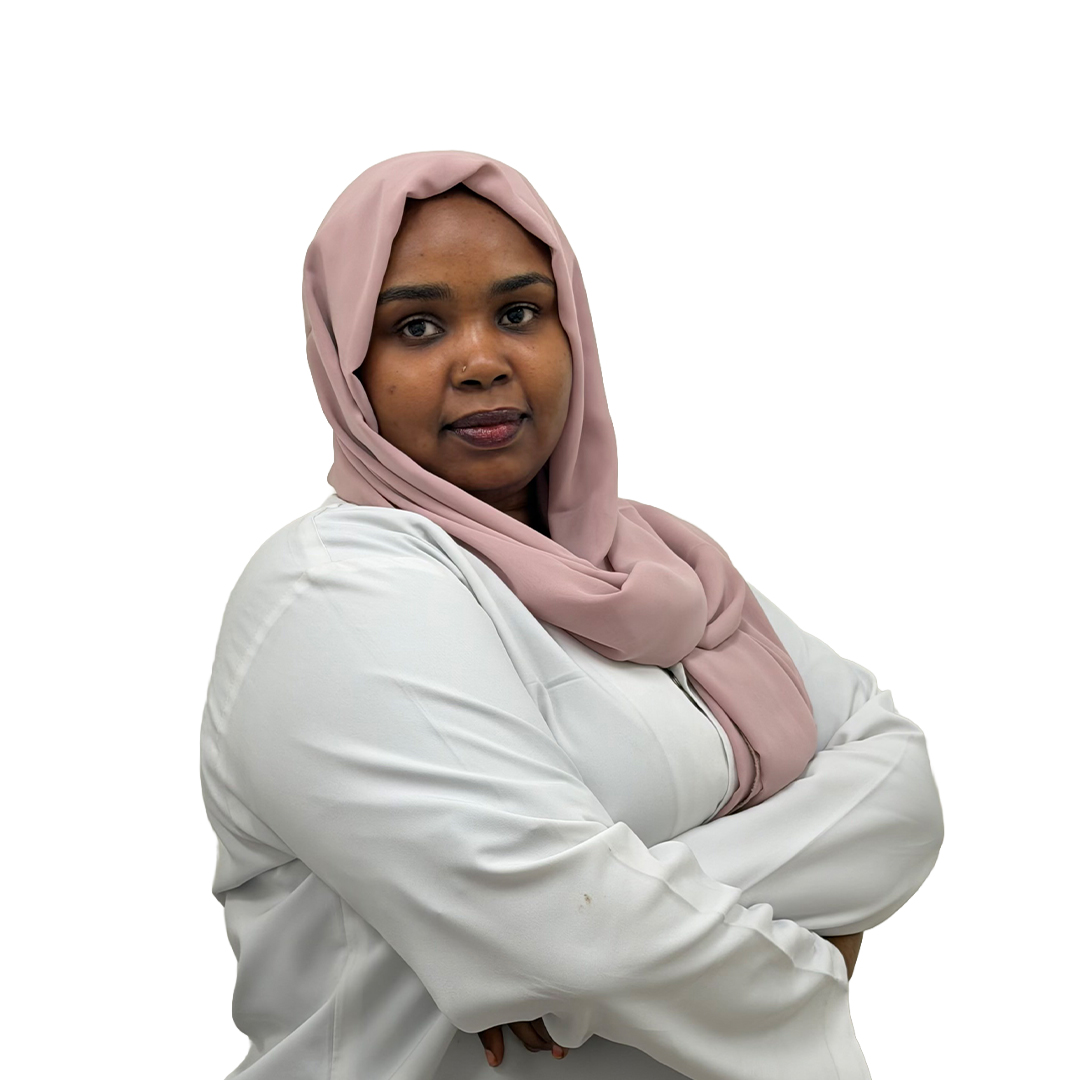
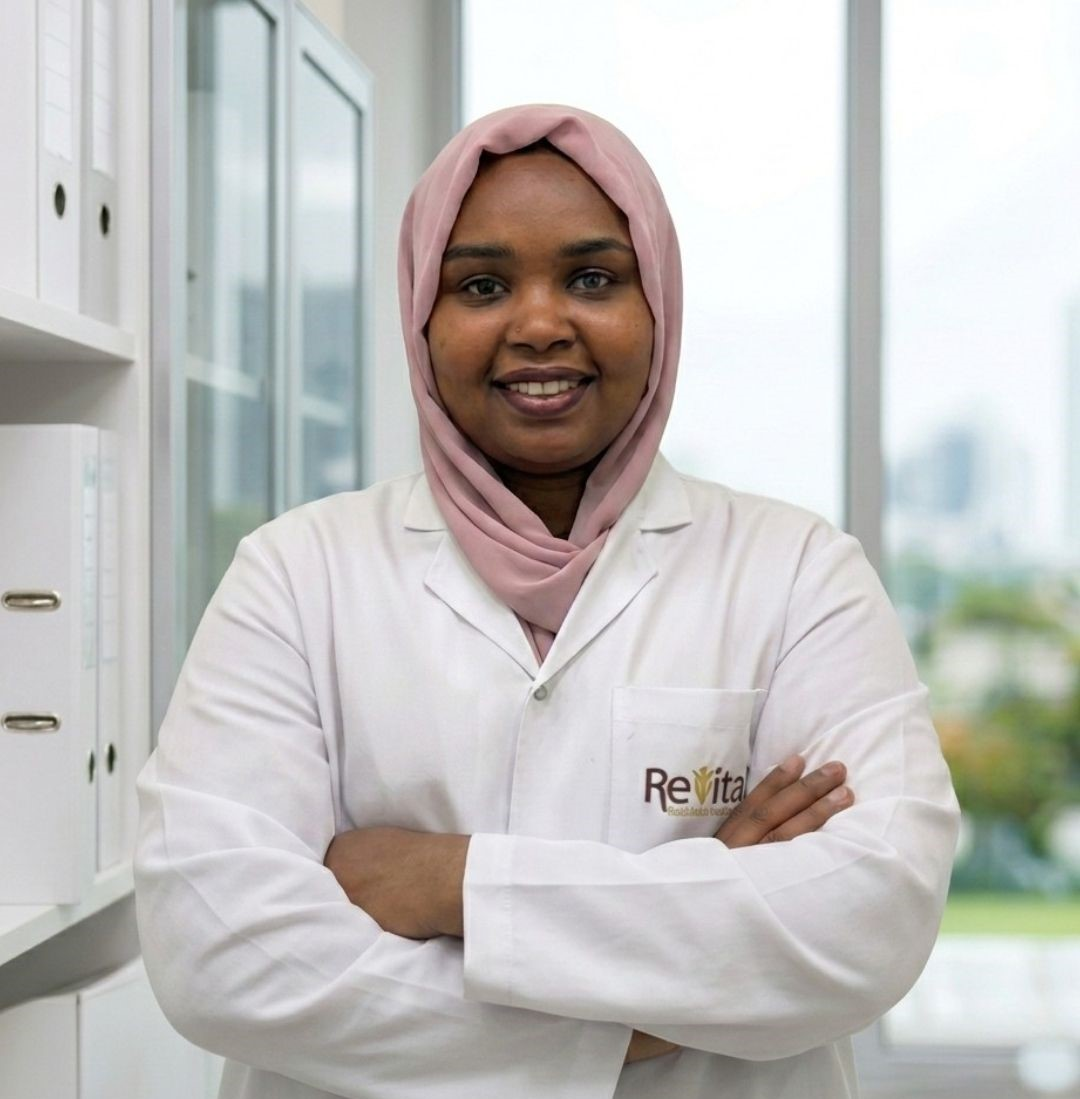
edit images of team

diff --git a/src/app/homePage/team/team.component.ts b/src/app/homePage/team/team.component.ts
@@ -172,7 +172,7 @@ interface Doctor {
       }
 
       .doctor-image-wrapper {
-        height: 320px;
+        height: 470px;
       }
       
       .doctor-info {
@@ -219,7 +219,7 @@ export class TeamComponent {
       name: 'د. إيهاب صادق',
       specialty: 'طبيب أسنان',
       gender: 'male',
-      image: 'assets/Artboard 1.jpg' 
+      image: 'assets/ehab.jpg' 
     },
     {
       name: 'د. فاطمة خيري',
@@ -228,7 +228,7 @@ export class TeamComponent {
       image: 'assets/fatma.jpg'
     },
     {
-      name: 'د. محمود ياسين رحال',
+      name: ' محمود ياسين رحال',
       specialty: 'المدير العام',
       gender: 'male',
       image: 'assets/mahmoud.jpeg'

diff --git a/src/app/core/models/services.model.ts b/src/app/core/models/services.model.ts
@@ -297,7 +297,7 @@ export const DEPARTMENTS_DATA: Department[] = [
     nameAr: 'طب الأطفال',
     nameEn: 'Pediatrics',
     icon: 'bi-balloon-heart',
-    description: 'رعاية صحية متكاملة للأطفال من الولادة حتى المراهقة',
+    description: 'رعاية صحية متكاملة للأطفال.',
     heroImage: 'assets/childrenCover.jpg',
     services: [
       {

diff --git a/src/app/aboutPage/aboutHeroSection/aboutHeroSection.component.css b/src/app/aboutPage/aboutHeroSection/aboutHeroSection.component.css
@@ -1,7 +1,7 @@
 .hero-section {
   position: relative;
   height: 550px;
-  background-image: url('https://images.unsplash.com/photo-1519494026892-80bbd2d6fd0d?ixlib=rb-4.0.3&auto=format&fit=crop&w=2053&q=80');
+  background-image: url('/assets/Revital-Design-4.webp');
   background-size: cover;
   background-position: center;
   display: flex;

diff --git a/src/app/aboutPage/aboutHeroSection/aboutHeroSection.component.html b/src/app/aboutPage/aboutHeroSection/aboutHeroSection.component.html
@@ -2,6 +2,6 @@
   <div class="hero-overlay"></div>
   <div class="hero-content">
     <h1 class="hero-title"> في ريفيتال</h1>
-    <p class="hero-subtitle">  صحتكم ليست خدمة… بل مسؤولية.</p>
+    <p class="hero-subtitle">  لمسة من الرعاية التي تستحقها.</p>
   </div>
 </section>
